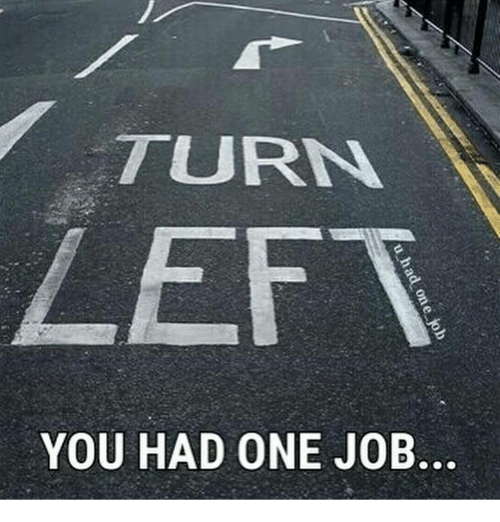
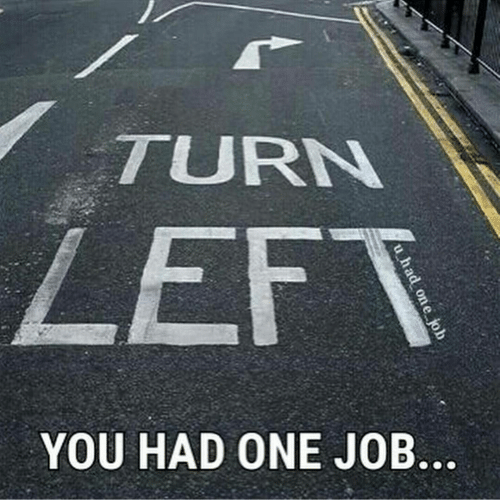
Website

diff --git a/Website/public/Memes_Style.css b/Website/public/Memes_Style.css
@@ -8,29 +8,51 @@ body{
   font-family: monospace;
   text-align: center;
 }
-.bigbang{
+.about_button button {
+  width: 60px;
+  height: 20px;
+  border-radius: 20px;
+  margin-left: 48%;
+  margin-top: 2px;
+}
+.home_button button {
+  width: 60px;
+  height: 20px;
+  border-radius: 20px;
+  margin-left: 48%;
+  margin-top: 2px;
+}
+.bigbang {
     padding-bottom: 10px;
     position:absolute;
     width:100%;
     height:100%;
     text-align: center;
 }
+.bigbang img{
+  border: 2px groove black;
+}
 .bigbang h2{
   font-family: monospace;
   text-align: center;
+  font-size: 50px;
 }
 .turnleft{
   font-family: monospace;
-  padding-top: 530px;
+  padding-top: 560px;
   padding-bottom: 10px;
   position:absolute;
   width:100%;
   height:100%;
   text-align: center;
 }
-h2 .turnleft{
+.turnleft h2{
   text-align: center;
-  font-family: monospace
+  font-family: monospace;
+  font-size: 50px;
+}
+.turnleft img{
+  border: 2px groove black;
 }
 .road{
   padding-top: 1120px;
@@ -40,6 +62,12 @@ h2 .turnleft{
   height:100%;
   text-align: center;
 }
+.road{
+  padding-top: 1200px;
+}
+.road img{
+  border: 2px groove black;
+}
 .yobamma{
   font-family: monospace;
   padding-top: 1550px;
@@ -47,4 +75,11 @@ h2 .turnleft{
   width:100%;
   height:100%;
   text-align: center;
+}
+.yobamma h2{
+  padding-top: 60px;
+  font-size: 50px;
+}
+.yobamma img{
+  border: 2px groove black;
 }

diff --git a/Website/app.js b/Website/app.js
@@ -4,16 +4,14 @@ const app = express();
 const port = 3000
 
 //Specifing folder for css and stuff
-//Iamge and Css files
+//Image and Css files
 app.use(express.static(__dirname + '/public/'));
 
-app.use(express.static(__dirname + '/views/'));
-
 //Rerouting
-app.get('/', (req, res) => res.sendFile(path.join(__dirname + 'index.html')));
+app.get('/', (req, res) => res.sendFile(path.join(__dirname + '/views/index.html')));
 
-app.get('/memes', (req, res) => res.sendFile(path.join(__dirname + 'memes.html')));
+app.get('/memes', (req, res) => res.sendFile(path.join(__dirname + '/views/memes.html')));
 
-app.get('/about', (req, res) => res.sendFile(path.join(__dirname + 'about.html')));
+app.get('/about', (req, res) => res.sendFile(path.join(__dirname + '/views/about.html')));
 
-app.listen(port, () => console.log(`Listening on port ${port}!`));
+app.listen(port, () => console.log(`Listening on 127.0.0.1 with port ${port}!`));

diff --git a/Website/public/About_Style.css b/Website/public/About_Style.css
@@ -2,14 +2,27 @@ h1{
   text-align: center;
   font-size: 40px;
   font-family: 'Times New Roman', Times, serif;
-  width: 300px;
+  width: 50%;
   border: 5px solid black;
-  box-shadow: 5px 10px;
+  box-shadow: 5px 2px;
   padding: 25px;
-  margin: auto;
+  margin-left: 22%;
+}
+.home_button button {
+  width: 60px;
+  height: 20px;
+  border-radius: 20px;
+  margin-left: 47.5%;
+}
+
+.memes_button button {
+  width: 60px;
+  height: 20px;
+  border-radius: 20px;
+  margin-left: 47.5%;
+  margin-top: 2px;
 }
 .Email{
-  border: 2px solid black;
   text-align: center;
   font-size: 20px;
   font-family: Georgia, Times, 'Times New Roman', serif;
@@ -26,6 +39,6 @@ h1{
   font-family: Georgia, 'Times New Roman', Times, serif;
 }
 body{
-  background-color: rgb(0, 161, 108);
+  background-color: rgb(105, 121, 129);
 }
 

diff --git a/Website/views/index.html b/Website/views/index.html
@@ -7,11 +7,14 @@
       <title>Website</title>
   </head>
   <body>
-      <h1>Go to index.html to modify</h1>
-      <p>Search for /about to get contact page with links</p>
-      <p>Search for /memes to get meme page</p>
-      <div class="Color">
-        <p>If this is colored red, then css is working</p>
+      <div class="Info">
+      <h1>Welcome to my Website</h1>
       </div>
-  </body>
+      <div class="about_button">
+      <button name='About' type='button' value='About' class="button" onclick="document.location.href='./about';">About</button>
+      </div>
+      <div class="memes_button">
+        <button name="Memes" type='button' value='Memes' class="button" onclick="document.location.href='./memes';">Memes</button>
+      </div>
+      </body>
 </html>

diff --git a/Website/views/about.html b/Website/views/about.html
@@ -3,9 +3,16 @@
   <head>
     <meta charset="utf-8">
     <link rel="stylesheet" type='text/css' href="About_Style.css">
+    <script src="main.js"></script>
     <title>About Page</title>
   </head>
   <body>
+      <div class="home_button">
+        <button name="Home" type='button' value='Home' class="button" onclick="document.location.href='./';">Home</button>
+      </div>
+      <div class="memes_button">
+        <button name="Memes" type='button' value='Memes' class="button" onclick="document.location.href='./memes';">Memes</button>
+      </div>
       <h1>Contact Information</h1>
         <div class="Links">
         <a href="https://www.twitter.com/KLxXmemestarXx">Twitter</a>

diff --git a/Website/views/memes.html b/Website/views/memes.html
@@ -3,9 +3,16 @@
   <head>
     <meta charset="utf-8">
     <link rel="stylesheet" type="text/css" href="Memes_Style.css">
-    <title></title>
+    <script src="main.js"></script>
+    <title>MEMEMS!!!!!!!!!!!!</title>
   </head>
   <body>
+      <div class="about_button">
+        <button name="About" type='button' value='About' class="button" onclick="document.location.href='./about';">About</button>
+      </div>
+      <div class="home_button">
+        <button name="Home" type='button' value='Home' class="button" onclick="document.location.href='./';">Home</button>
+      </div>
       <div class="Title">
         <h1>Welcome to my meme site</h1>
       </div>

diff --git a/Website/public/Main.css b/Website/public/Main.css
@@ -1,3 +1,21 @@
-.Color p {
- color: red;
+.Info{
+ font-family: 'Times New Roman', Times, serif;
+ font-size: 20px;
+ text-align: center
+}
+body{
+    background-color: rgb(105, 121, 129);
+}
+.about_button button{
+    width: 60px;
+    height: 20px;
+    border-radius: 20px;
+    margin-left: 48%;
+}
+.memes_button button{
+    width: 60px;
+    height: 20px;
+    border-radius: 20px;
+    margin-left: 48%;
+    margin-top: 2px;
 }
